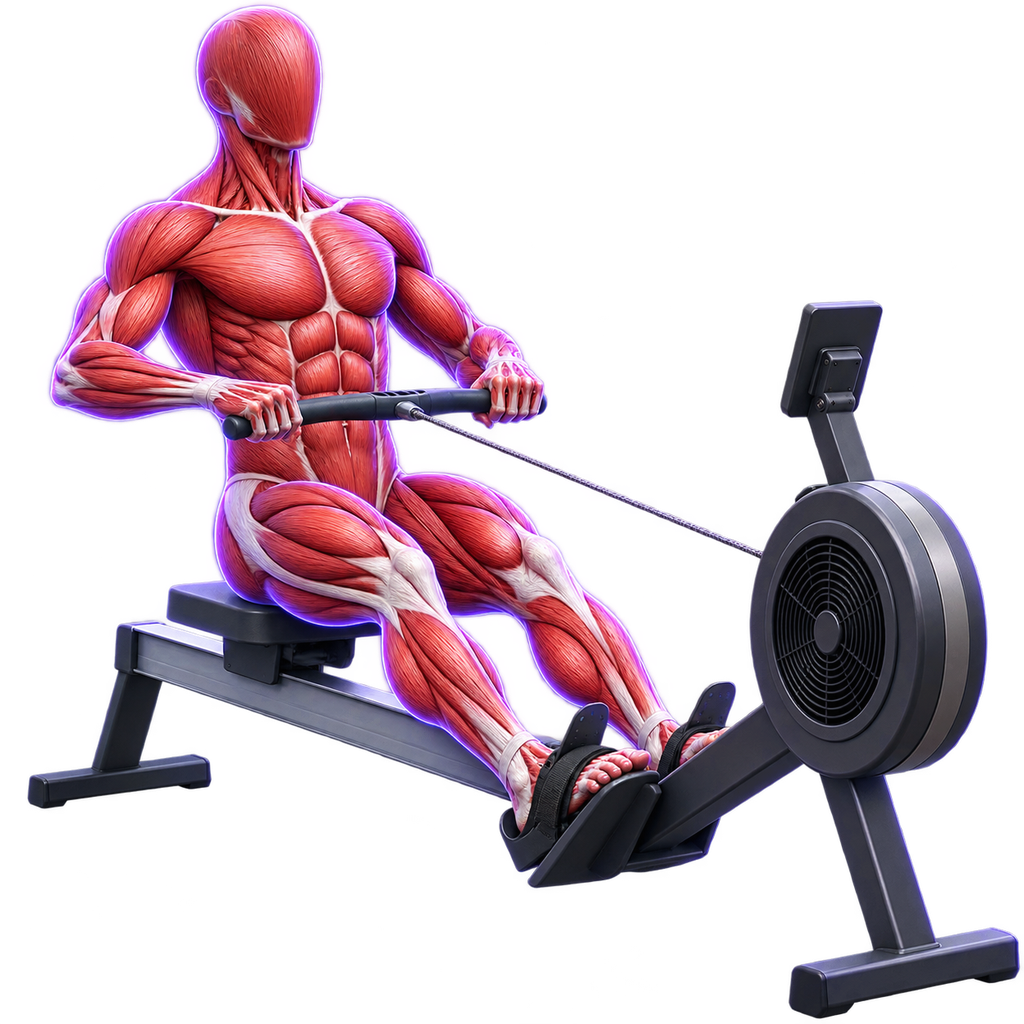
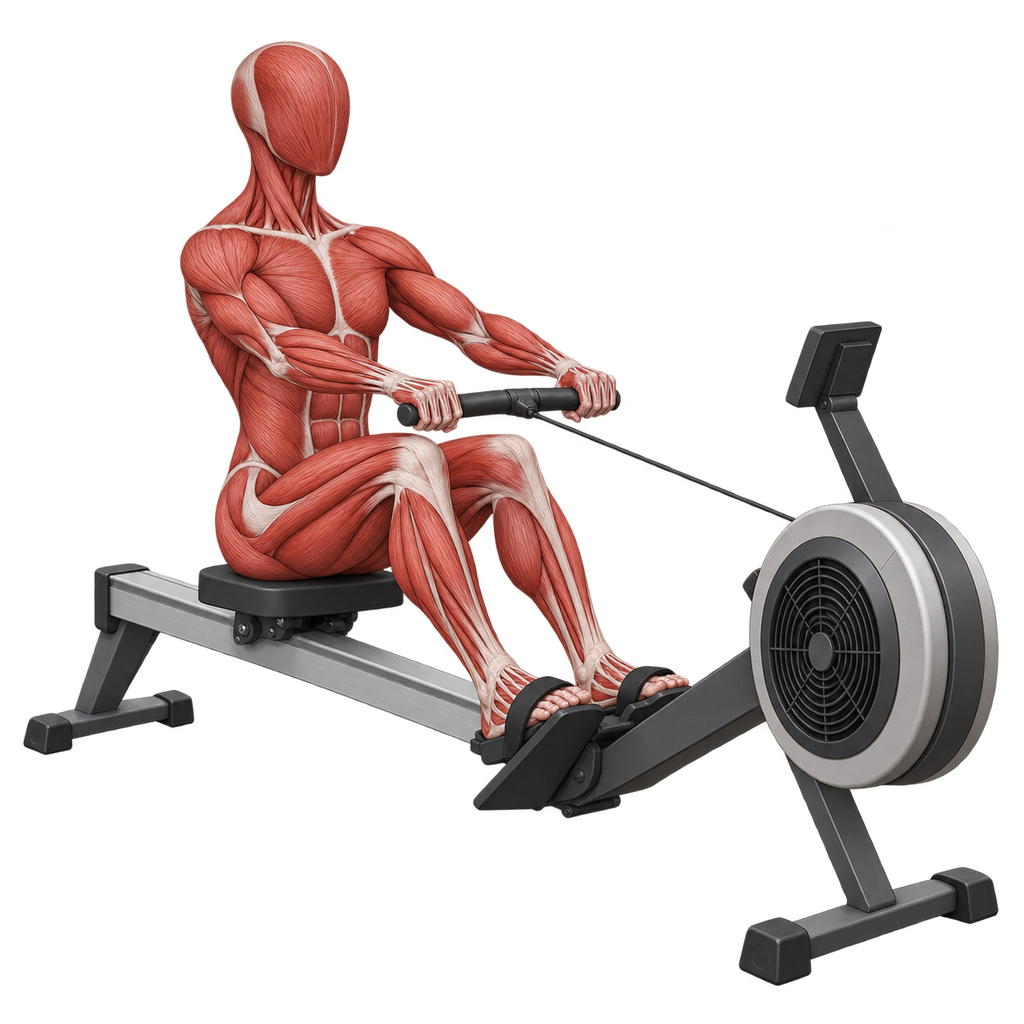
Refine cardio exercise figure style

diff --git a/CREDITS.md b/CREDITS.md
@@ -128,3 +128,13 @@
 - **Prompt pattern:** `Minimal clinical exercise diagram showing a full-body abstract anatomical muscle mannequin with a smooth featureless head and visible red musculature only, demonstrating {position} of a horizontal upper-body support drill. Soft diffuse lighting, muted anatomical red tones. Highlight the pectoral and triceps muscle groups subtly brighter with a soft violet #7c5cff glow. Light side-front three-quarter view, full figure centered with compact consistent zoom. Scene/backdrop: fully transparent background; no floor, no shadow. Constraints: educational non-human anatomy model only; no skin, face, hair, real person, text, watermark, logo, or branding. 1024 × 1024 PNG with alpha transparency.`
 - **Prompt substitutions:** `starting / straight arms, hands below shoulders, body as a rigid horizontal line`; `contracted ending / elbows approximately at a right angle with torso lower while body stays straight`.
 - **Transparency processing:** Both final outputs were validated as 1024 × 1024 RGBA PNGs with transparent corners.
+
+## ForgeFit exercise figures — cardio style correction 2026-08-20
+
+- **Replaced assets:** `public/exercise-images/treadmill-0.png`, `public/exercise-images/rowing-machine-0.png`
+- **Tool:** OpenAI built-in image generation (`gpt-image-2`), with native PNG alpha transparency and local 1024 × 1024 downscaling.
+- **Date:** 2026-08-20
+- **Source inputs:** None. Both replacements were generated fresh; no prior exercise images, photos, or third-party image inputs were used.
+- **Prompt pattern:** `Minimal matte medical illustration, NOT a glossy 3D render. A full-body abstract anatomical muscle mannequin, non-human and made only of visible red musculature with a smooth featureless head, performing {cardio keyframe} on a compact neutral unbranded {machine}. Render with subdued matte anatomical reds, restrained diffuse shading, and an elegant printed anatomy-plate feel. No muscle highlight, violet color, glow, aura, rim light, bloom, shiny or plastic material rendering. Scene/backdrop: fully transparent background; no floor or cast shadow. Light front-side three-quarter view, full figure centered with compact consistent zoom. Constraints: no skin, face, hair, real person, text, watermark, logo, or branding. 1024 × 1024 PNG with alpha transparency.`
+- **Prompt substitutions:** `calm walking keyframe / treadmill`; `seated cardio keyframe with handle forward, taut cable and flexed knees / indoor rower`.
+- **Transparency processing:** Both final outputs were validated as 1024 × 1024 RGBA PNGs with transparent corners.
